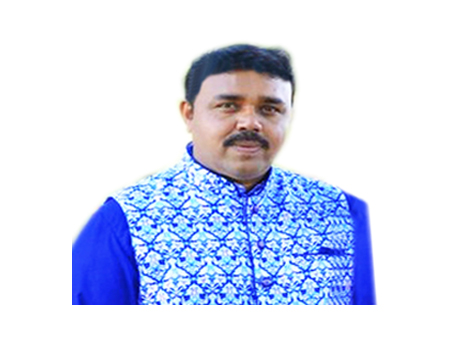
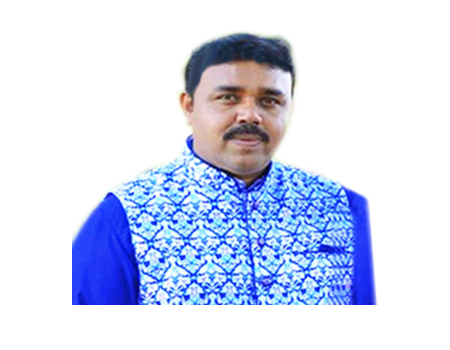
photo changed

Changed region(s): [[0.1556, 0.0857, 0.84, 0.8571]]

diff --git a/faculty.html b/faculty.html
@@ -234,7 +234,7 @@ div.sticky{
                     <div class="col-lg-6 col-md-12">
                         <div class="blog-box1">
                             <div class="image-wrap entry">
-                                <img src="upload/raajesh2.jpg" alt="" class="img-responsive">
+                                <img src="upload/rajesh2.jpg" alt="" class="img-responsive">
                               
                             </div><!-- end image-wrap -->
 
